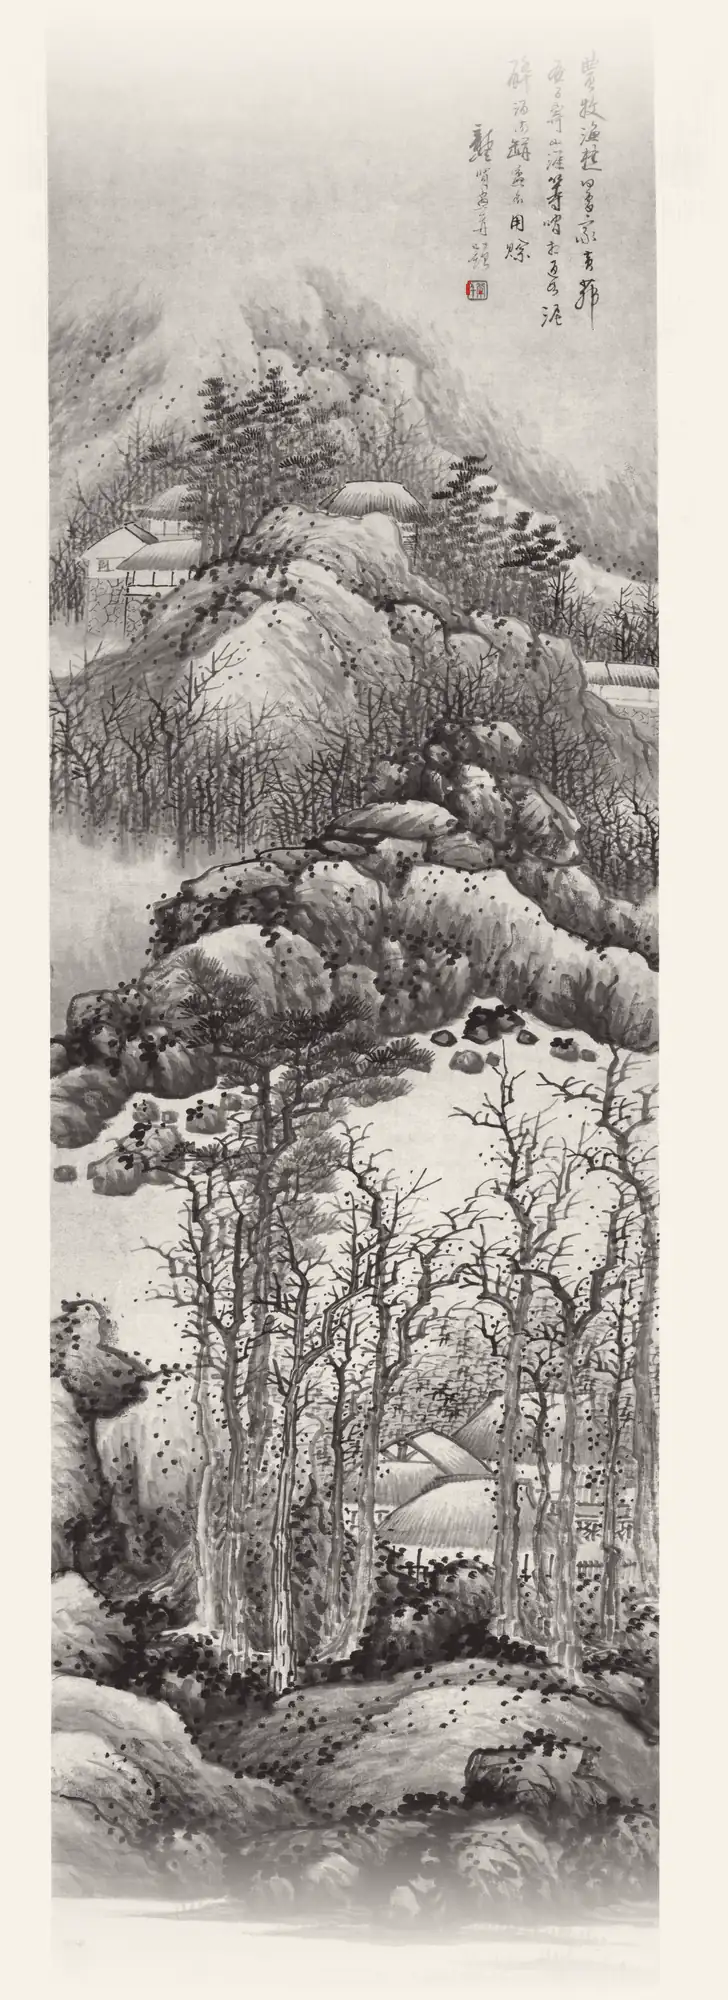
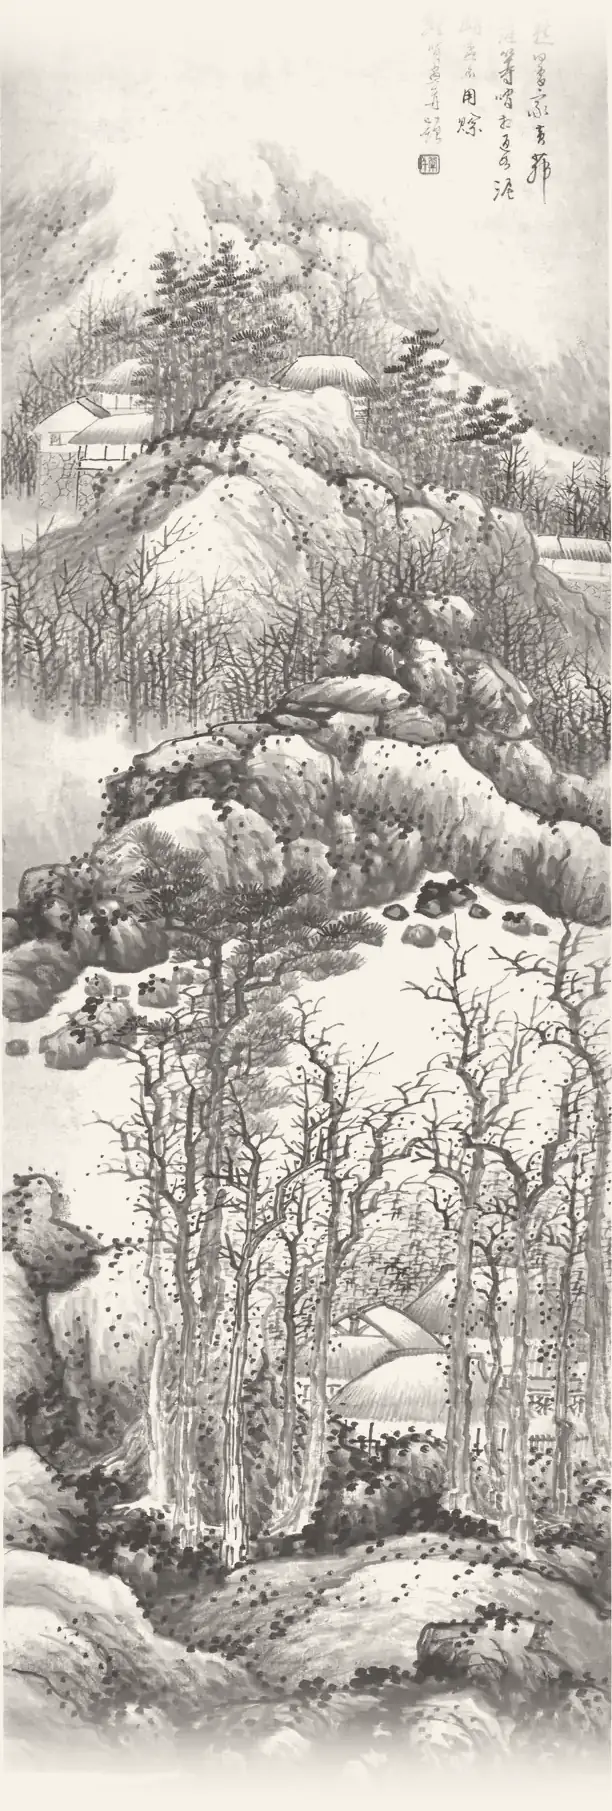
Your path: paintings trimmed and laid on the paper, even fade at both edges; no Practise by mode link
art/build.py re-exports art/src/ink*.webp: flat paper, blank margins and detached edge strips cut, ink on --paper,
INKS written into js/units.js. .umap::before fades left and right the same with a mask. The lesson card loses its
Practise by mode link and the news line pointing to it.

Claude-Session: https://claude.ai/code/session_01MQovhKtgNyruh7SscxyjYd

diff --git a/css/app.css b/css/app.css
@@ -1236,12 +1236,13 @@ details.gegd>.geg{padding-bottom:12px}
 .ulh{position:sticky;top:0;z-index:3;display:flex;align-items:center;gap:12px;background:var(--surface);border:1.5px solid var(--line);border-radius:14px;padding:10px 12px;box-shadow:0 6px 12px -10px rgb(0 0 0/.3)}
 .ulht{flex:1;min-width:0;display:flex;flex-direction:column;gap:2px}.ulht small{color:var(--muted);font-size:.76rem}.ulht b{font-family:var(--f-display);font-size:1rem;line-height:1.2}
 .ulbar{display:block;height:5px;border-radius:9px;background:var(--sunk);overflow:hidden;margin-top:3px}.ulbar i{display:block;height:100%;background:var(--accent);border-radius:inherit}
-.ulmore{flex:none;font-size:.78rem;font-weight:600;color:var(--muted);text-decoration:underline;text-underline-offset:2px;padding:6px 2px;max-width:92px;text-align:right;line-height:1.2}
 .umap{position:relative;border-radius:4px;padding:30px 0 64px;overflow:hidden;background:var(--paper);
   box-shadow:inset 0 0 0 1px rgb(0 0 0/.12),inset 0 0 0 6px var(--paper),inset 0 0 0 7px rgb(0 0 0/.18),0 10px 24px -16px rgb(60 40 30/.5)}
-/* the painting, faint enough for the stamps to stay in front */
-.umap::before{content:"";position:absolute;inset:8px;background:var(--a1) top center/100% auto no-repeat,var(--a2,none) bottom center/100% auto no-repeat;opacity:.55;pointer-events:none}
-.ia1{--a1:url(../art/ink1.webp)}.ia2{--a1:url(../art/ink2.webp)}.ia3{--a1:url(../art/ink3.webp)}.ia4{--a1:url(../art/ink4.webp)}.ia5{--a1:url(../art/ink5.webp)}.ia6{--a1:url(../art/ink6.webp)}.ia7{--a1:url(../art/ink7.webp)}.ia8{--a1:url(../art/ink8.webp)}.ia9{--a1:url(../art/ink9.webp)}.ia10{--a1:url(../art/ink10.webp)}.ia11{--a1:url(../art/ink11.webp)}.ia12{--a1:url(../art/ink12.webp)}.ia13{--a1:url(../art/ink13.webp)}.ia14{--a1:url(../art/ink14.webp)}.ia15{--a1:url(../art/ink15.webp)}.ia16{--a1:url(../art/ink16.webp)}.ia17{--a1:url(../art/ink17.webp)}.ia18{--a1:url(../art/ink18.webp)}.ia19{--a1:url(../art/ink19.webp)}.ia20{--a1:url(../art/ink20.webp)}.ia21{--a1:url(../art/ink21.webp)}.ia22{--a1:url(../art/ink22.webp)}.ib1{--a2:url(../art/ink1.webp)}.ib2{--a2:url(../art/ink2.webp)}.ib3{--a2:url(../art/ink3.webp)}.ib4{--a2:url(../art/ink4.webp)}.ib5{--a2:url(../art/ink5.webp)}.ib6{--a2:url(../art/ink6.webp)}.ib7{--a2:url(../art/ink7.webp)}.ib8{--a2:url(../art/ink8.webp)}.ib9{--a2:url(../art/ink9.webp)}.ib10{--a2:url(../art/ink10.webp)}.ib11{--a2:url(../art/ink11.webp)}.ib12{--a2:url(../art/ink12.webp)}.ib13{--a2:url(../art/ink13.webp)}.ib14{--a2:url(../art/ink14.webp)}.ib15{--a2:url(../art/ink15.webp)}.ib16{--a2:url(../art/ink16.webp)}.ib17{--a2:url(../art/ink17.webp)}.ib18{--a2:url(../art/ink18.webp)}.ib19{--a2:url(../art/ink19.webp)}.ib20{--a2:url(../art/ink20.webp)}.ib21{--a2:url(../art/ink21.webp)}.ib22{--a2:url(../art/ink22.webp)}
+/* the painting, faint enough for the stamps to stay in front. The images are trimmed to the painted area and laid on
+   --paper (art/build.py); they span the sheet edge to edge and fade out the same on the left and the right */
+.umap::before{content:"";position:absolute;inset:8px;background:var(--a1) top center/100% auto no-repeat,var(--a2,none) bottom center/100% auto no-repeat;opacity:.55;pointer-events:none;
+  -webkit-mask-image:linear-gradient(90deg,transparent,#000 9%,#000 91%,transparent);mask-image:linear-gradient(90deg,transparent,#000 9%,#000 91%,transparent)}
+.ia1{--a1:url(../art/ink1.webp?v=2)}.ia2{--a1:url(../art/ink2.webp?v=2)}.ia3{--a1:url(../art/ink3.webp?v=2)}.ia4{--a1:url(../art/ink4.webp?v=2)}.ia5{--a1:url(../art/ink5.webp?v=2)}.ia6{--a1:url(../art/ink6.webp?v=2)}.ia7{--a1:url(../art/ink7.webp?v=2)}.ia8{--a1:url(../art/ink8.webp?v=2)}.ia9{--a1:url(../art/ink9.webp?v=2)}.ia10{--a1:url(../art/ink10.webp?v=2)}.ia11{--a1:url(../art/ink11.webp?v=2)}.ia12{--a1:url(../art/ink12.webp?v=2)}.ia13{--a1:url(../art/ink13.webp?v=2)}.ia14{--a1:url(../art/ink14.webp?v=2)}.ia15{--a1:url(../art/ink15.webp?v=2)}.ia16{--a1:url(../art/ink16.webp?v=2)}.ia17{--a1:url(../art/ink17.webp?v=2)}.ia18{--a1:url(../art/ink18.webp?v=2)}.ia19{--a1:url(../art/ink19.webp?v=2)}.ia20{--a1:url(../art/ink20.webp?v=2)}.ia21{--a1:url(../art/ink21.webp?v=2)}.ia22{--a1:url(../art/ink22.webp?v=2)}.ib1{--a2:url(../art/ink1.webp?v=2)}.ib2{--a2:url(../art/ink2.webp?v=2)}.ib3{--a2:url(../art/ink3.webp?v=2)}.ib4{--a2:url(../art/ink4.webp?v=2)}.ib5{--a2:url(../art/ink5.webp?v=2)}.ib6{--a2:url(../art/ink6.webp?v=2)}.ib7{--a2:url(../art/ink7.webp?v=2)}.ib8{--a2:url(../art/ink8.webp?v=2)}.ib9{--a2:url(../art/ink9.webp?v=2)}.ib10{--a2:url(../art/ink10.webp?v=2)}.ib11{--a2:url(../art/ink11.webp?v=2)}.ib12{--a2:url(../art/ink12.webp?v=2)}.ib13{--a2:url(../art/ink13.webp?v=2)}.ib14{--a2:url(../art/ink14.webp?v=2)}.ib15{--a2:url(../art/ink15.webp?v=2)}.ib16{--a2:url(../art/ink16.webp?v=2)}.ib17{--a2:url(../art/ink17.webp?v=2)}.ib18{--a2:url(../art/ink18.webp?v=2)}.ib19{--a2:url(../art/ink19.webp?v=2)}.ib20{--a2:url(../art/ink20.webp?v=2)}.ib21{--a2:url(../art/ink21.webp?v=2)}.ib22{--a2:url(../art/ink22.webp?v=2)}
 :root[data-theme="dark"] .umap::before{filter:invert(1) sepia(.15) brightness(.85);mix-blend-mode:screen;opacity:.35}
 .unodes{position:relative;z-index:1}
 .ulink{position:absolute;left:50%;top:0;overflow:visible;pointer-events:none}

diff --git a/js/i18n.js b/js/i18n.js
@@ -146,7 +146,7 @@ CS_P.push(
  [/^Last: (\d+)%$/,(m,a)=>`Naposledy: ${a} %`],
  [/^Tone (\d) → (\d)$/,(m,a,b)=>`${a}. tón → ${b}.`]);
 /* Your path, step by step (js/units.js) */
-Object.assign(CS,{"Lesson review":"Opakování lekce","Here":"Tady jsi","Practise by mode":"Procvičovat zvlášť",
+Object.assign(CS,{"Lesson review":"Opakování lekce","Here":"Tady jsi",
  "Finish the lesson before it to open this one.":"Lekce se odemkne, až dokončíš tu předchozí.",
  "Everything from this lesson, mixed: words, characters, tones, sentences and grammar.":"Všechno z téhle lekce namíchané dohromady: slova, znaky, tóny, věty a gramatika.",
  "Finish the units before it first.":"Nejdřív dokonči podbody před ním.","Take the Final test":"Udělat Finální test","Play it again":"Zahrát znovu",
@@ -164,8 +164,7 @@ Object.assign(CS,{"Lesson review":"Opakování lekce","Here":"Tady jsi","Practis
  "Units open one after another. Grammar units come between the words, then a lesson review and the Final test, which stamps the seal as before.":"Podbody se odemykají jeden po druhém. Mezi slovy jsou podbody s gramatikou, na konci opakování lekce a Finální test, který jako dřív orazítkuje pečeť.",
  "Play a finished unit again at level 2 and 3 (gold): fewer hints, more typing and writing from memory.":"Hotový podbod můžeš zahrát znovu na úrovni 2 a 3 (zlatá): méně nápověd, víc psaní pinyinu a znaků zpaměti.",
  "Know a lesson already? Pass its Final test to skip straight to it. What you have learnt so far counts: units with words you know are done.":"Lekci už umíš? Splň její Finální test a přeskočíš rovnou k ní. Co už umíš, se počítá: podbody se slovy, která znáš, jsou hotové.",
- "Each lesson has its own old Chinese ink landscape from The Metropolitan Museum of Art (public domain), shown whole while you scroll.":"Každá lekce má svou starou čínskou tušovou malbu z Metropolitního muzea v New Yorku (volné dílo), celou a viditelnou i při posouvání.","New words are taught two at a time, a mistake comes back a few exercises later, and after a unit you can practise its mistakes.":"Nová slova se učí po dvou, chyba se vrátí o pár úloh později a po podbodu si můžeš procvičit své chyby.",
- "The modes of each lesson (flashcards, tones, writing…) are still there under Practise by mode.":"Režimy každé lekce (kartičky, tóny, psaní…) zůstaly pod Procvičovat zvlášť."});
+ "Each lesson has its own old Chinese ink landscape from The Metropolitan Museum of Art (public domain), shown whole while you scroll.":"Každá lekce má svou starou čínskou tušovou malbu z Metropolitního muzea v New Yorku (volné dílo), celou a viditelnou i při posouvání.","New words are taught two at a time, a mistake comes back a few exercises later, and after a unit you can practise its mistakes.":"Nová slova se učí po dvou, chyba se vrátí o pár úloh později a po podbodu si můžeš procvičit své chyby."});
 CS_P.push(
  [/^Words (\d+)$/,(m,n)=>`Slova ${n}`],
  [/^(\d+)% stamps the seal$/,(m,n)=>`${n} % orazítkuje pečeť`],

diff --git a/js/units.js b/js/units.js
@@ -58,7 +58,8 @@ const unitNext=l=>{const n=unitNow();if(n.l===l)return n.u;return lessonUnits(l)
    Metropolitan Museum of Art, Open Access CC0; see art/README.md), turned into the app's ink and paper. It spans the
    width of the sheet from the top, whole, never cut or stretched; each lesson gets the
    painting whose shape (width / height) is closest to its sheet, and no two lessons of a course share one. */
-const INKS=[0.684,0.513,0.579,0.282,0.504,0.595,0.484,0.374,0.425,0.473,0.557,0.364,0.324,0.442,0.716,0.474,0.506,0.239,0.461,0.401,0.268,0.308];
+// INKS is written by art/build.py
+const INKS=[0.722,0.525,0.608,0.295,0.522,0.651,0.501,0.347,0.443,0.48,0.532,0.338,0.324,0.431,0.759,0.46,0.509,0.237,0.454,0.416,0.278,0.301];
 // the sheet is about 340px wide; a painting spans it, so it is 340 / aspect tall. A lesson gets the painting closest to
 // its own shape; a long lesson whose sheet holds two paintings whole gets a second one at its foot, never overlapping.
 const INK_OF=(()=>{let m=null;return l=>{if(!m){m={};const used=new Set(),h=i=>336/INKS[i];
@@ -75,7 +76,7 @@ function lessonPathHtml(l,k){
       ${here?`<span class="ustart">${u.kind==='f'?'Test':lv?'Here':'Start'}</span>`:''}<span class="ubub" lang="zh-Hans">${unitGlyph(l,u)}</span>${u.kind!=='f'?`<span class="ulvb" aria-hidden="true">${[1,2,3].map(j=>`<i class="${j<=lv?'on':''}"></i>`).join('')}</span>`:''}</button>
       <span class="uname">${esc(unitName(l,u))}</span></div>`};
   return `<section class="ulesson${op?'':' locked'}" id="ul-${l}"><div class="ulh">${sealHtml(l,'sm')}<div class="ulht"><small><span>${esc(LNAME(l))}</span>${sealOf(l)?' · <span>Completed</span>':` · <span>${esc(`${done} / ${tot} units`)}</span>`}</small><b>${esc(m.en)}</b>
-      <span class="ulbar" aria-hidden="true"><i style="width:${sealOf(l)?100:Math.round(done/Math.max(1,tot)*100)}%"></i></span></div><button class="ulmore" data-lsheet="${l}" type="button">Practise by mode</button></div>
+      <span class="ulbar" aria-hidden="true"><i style="width:${sealOf(l)?100:Math.round(done/Math.max(1,tot)*100)}%"></i></span></div></div>
     <div class="umap ia${INK_OF(l)[0]}${INK_OF(l)[1]?` ib${INK_OF(l)[1]}`:''}"><div class="unodes" style="height:${H}px"><svg class="ulink" width="1" height="${H}" aria-hidden="true" focusable="false"><path class="todo" d="${line}"/><path class="ink" d="${ink}"/></svg>${us.map(node).join('')}</div></div>
     ${op?'':`<div class="ujump"><p class="hint">Finish the lesson before it to open this one.</p><button class="btn ghost" data-jump="${l}" type="button">${esc(`Know it already? Take the Final test of ${LNAME(l)}`)}</button></div>`}</section>`;
 }

diff --git a/tests/cases/11-path.js b/tests/cases/11-path.js
@@ -18,7 +18,7 @@ module.exports=[
     assert.equal(await a.page.$$eval('.unode.cur',e=>e.length),1);assert.equal(await a.page.$eval('.unode.cur',e=>e.dataset.unit),'2|w1','the first unit of lesson 2 is not marked');
     assert.equal(await a.page.$$eval('#ul-1 .unode.done',e=>e.length),await a.page.evaluate(()=>lessonUnits('1').length),'a stamped lesson is not all done');
     assert.ok(await a.page.$('#ul-3.locked [data-jump="3"]'),'lesson 3 is not locked with a way to skip to it');assert.ok(!(await a.page.$('#ul-2.locked')),'lesson 2 is locked');
-    assert.match(await a.text('.tcta'),/Pokračuj: Lekce 2 · Slova 1/);assert.match(await a.text('#ul-1 .ulh'),/Lekce 1 · Splněno.*Procvičovat zvlášť/);assert.ok(await a.page.$('.jgoal [data-go="hsktest"]'),'no goal');
+    assert.match(await a.text('.tcta'),/Pokračuj: Lekce 2 · Slova 1/);assert.match(await a.text('#ul-1 .ulh'),/Lekce 1 · Splněno/);assert.ok(!(await a.page.$('.ulh button')),'the lesson card still has a button');assert.ok(await a.page.$('.jgoal [data-go="hsktest"]'),'no goal');
     assert.equal(await a.page.evaluate(()=>document.documentElement.scrollWidth),390,'the path is wider than the screen');
     await a.page.click('.unode.cur');await a.page.waitForSelector('.nsheet .usheet');assert.match(await a.text('.usheet'),/Slova 1.*Začít/);
     await a.page.click('.nsheet [data-ugo]');await a.page.waitForSelector('.ubar');noErrors(a)}finally{await a.close()}

diff --git a/sw.js b/sw.js
@@ -4,7 +4,7 @@
    Every release changes CACHE below, so the files of a version are cached together and an older cache is dropped.
    The big files that rarely change (DATA_FILES) live in their own cache, DATA: a release keeps it, so they are not
    downloaded again. Change DATA only when one of those files changes. */
-const CACHE='zyl-v19';
+const CACHE='zyl-v20';
 const CORE=['./','index.html','css/app.css',
   'js/data-cin1.js','js/data-hsk1.js','js/packs.js','js/data-chars.js','js/items.js','js/util.js','js/state.js','js/examples.js','js/voice.js','js/update.js','js/speech.js','js/home.js','js/setup.js','js/review.js','js/cards.js','js/try-writing.js','js/questions.js','js/learn.js','js/test.js','js/match.js','js/vocab.js','js/sentences.js','js/grammar-data.js','js/grammar.js','js/writing.js','js/tones.js','js/progress.js','js/account.js','js/welcome.js','js/phonetics.js','js/admin.js','js/nudges.js','js/path.js','js/units.js','js/hsk-test.js','js/modes.js','js/news.js','js/strings-cs.js','js/i18n.js',
   'manifest.webmanifest','grammar-practice.json','grammar-hsk1.json','hsk1-tests.json','examples.json','phonetics.json','grammar1.json',

diff --git a/js/news.js b/js/news.js
@@ -11,8 +11,7 @@ const NEWS=[
       'Play a finished unit again at level 2 and 3 (gold): fewer hints, more typing and writing from memory.',
       'Know a lesson already? Pass its Final test to skip straight to it. What you have learnt so far counts: units with words you know are done.',
       'Each lesson has its own old Chinese ink landscape from The Metropolitan Museum of Art (public domain), shown whole while you scroll.',
-      'New words are taught two at a time, a mistake comes back a few exercises later, and after a unit you can practise its mistakes.',
-      'The modes of each lesson (flashcards, tones, writing…) are still there under Practise by mode.']},
+      'New words are taught two at a time, a mistake comes back a few exercises later, and after a unit you can practise its mistakes.']},
   {id:'2026-11-21',d:'2026-11-21',t:"Today’s review as flashcards",art:'cards',go:()=>review(),
     what:"The cards to review today now look and work like Flashcards: tap to flip, then say how well you remembered it: Again, Hard, Good or Easy.",
     where:"Home › Cards to review today",

diff --git a/art/build.py b/art/build.py
@@ -1,0 +1,102 @@
+#!/usr/bin/env python3
+"""Builds the paintings behind Your path: art/src/inkN.webp -> art/inkN.webp, and the INKS list in js/units.js.
+
+    python3 art/build.py            (needs Pillow and numpy: pip install pillow numpy)
+
+The sources are the earlier exports of the Met scans (already ink on paper). For each one:
+1. Flat-field: the paper is estimated with a wide max filter and divided out, so uneven paper tones (a grey ground,
+   vignettes on one side) become one flat paper and only the ink is left (0 = paper, 1 = black ink).
+2. Trim: blank margins are cut away. Columns are scanned for ink; a narrow run of inked columns at the left or right
+   edge that is cut off from the painting by a blank gap (a separate strip of calligraphy, a mount) is dropped.
+   Inscriptions inside the painting stay. Rows are only trimmed of blank paper at the top and bottom.
+3. Colour: the ink is laid on the app's --paper (#f7f1e8 on .journey) in the app's warm black, so the edges of every
+   painting are exactly the colour of the sheet. The top and bottom fade into the paper; the left and right edges are
+   faded by CSS (.umap::before, mask-image), the same on both sides.
+4. Saved as WebP, at most 900 px wide.
+The shapes (width / height) are written into INKS in js/units.js, which picks a painting for each lesson.
+"""
+import pathlib, re
+import numpy as np
+from PIL import Image, ImageFilter
+
+ROOT = pathlib.Path(__file__).resolve().parent.parent
+SRC, OUT = ROOT / 'art' / 'src', ROOT / 'art'
+PAPER = np.array([247, 241, 232], float)   # --paper of .journey (css/app.css)
+INK = np.array([38, 33, 31], float)        # warm black ink
+N = 22
+MAX_W, QUALITY = 900, 70
+INK_MIN = 0.06       # ink below this is paper grain
+COL_INK = 0.012      # a column (or row) with less ink than this on average is blank
+GAP = 0.012          # a blank gap of at least this share of the width cuts a strip off
+STRIP = 0.16         # an edge run narrower than this share of the width is a strip, dropped
+EDGE = 0.06          # the faded rim of the sources, share of the shorter side
+FADE = 0.05          # top and bottom fade, share of the height
+
+def paper_of(L):
+    """The paper under the ink: a wide maximum (the brightest paper nearby), smoothed. It is measured inside the
+    old faded edge (EDGE) and carried out to the border, so a lighter rim does not count as the paper."""
+    h, w = L.shape
+    e = int(EDGE * min(w, h))
+    inner = Image.fromarray(L[e:h - e, e:w - e].astype(np.uint8))
+    sw = 160
+    small = inner.resize((sw, max(8, round(inner.height * sw / inner.width))), Image.BILINEAR)
+    bg = small.filter(ImageFilter.MaxFilter(25)).filter(ImageFilter.GaussianBlur(10))
+    bg = np.asarray(bg.resize(inner.size, Image.BILINEAR), float)
+    return np.maximum(np.pad(bg, e, mode='edge'), 60)
+
+def runs(mask, gap):
+    """Runs of True, joining runs separated by fewer than `gap` False."""
+    idx = np.flatnonzero(mask)
+    if not len(idx):
+        return []
+    out, a, b = [], idx[0], idx[0]
+    for i in idx[1:]:
+        if i - b > gap:
+            out.append([a, b]); a = i
+        b = i
+    out.append([a, b])
+    return out
+
+def smooth(v, k):
+    k = max(1, int(k)) | 1
+    return np.convolve(v, np.ones(k) / k, mode='same')
+
+def build(n):
+    im = Image.open(SRC / f'ink{n}.webp').convert('RGB')
+    L = np.asarray(im.convert('L'), float)
+    t = np.clip(1 - L / paper_of(L), 0, 1)
+    t = np.clip((t - INK_MIN) / (1 - INK_MIN), 0, 1)
+    h, w = t.shape
+    # columns: keep the painting, drop strips cut off at the edges
+    cols = smooth(t.mean(0), w * .004) > COL_INK
+    rs = runs(cols, GAP * w)
+    while len(rs) > 1 and rs[0][1] - rs[0][0] < STRIP * w:
+        rs.pop(0)
+    while len(rs) > 1 and rs[-1][1] - rs[-1][0] < STRIP * w:
+        rs.pop()
+    x0, x1 = rs[0][0], rs[-1][1] + 1
+    rows = smooth(t[:, x0:x1].mean(1), h * .005) > COL_INK
+    ys = np.flatnonzero(rows)
+    y0, y1 = ys[0], ys[-1] + 1
+    t = t[y0:y1, x0:x1]
+    h, w = t.shape
+    f = max(1, int(FADE * h))
+    ramp = np.ones(h)
+    ramp[:f] = np.linspace(0, 1, f) ** 1.5
+    ramp[-f:] = np.linspace(1, 0, f) ** 1.5
+    t = t * ramp[:, None]
+    rgb = PAPER + (INK - PAPER) * t[..., None]
+    out = Image.fromarray(np.clip(rgb + .5, 0, 255).astype(np.uint8))
+    if w > MAX_W:
+        out = out.resize((MAX_W, round(h * MAX_W / w)), Image.LANCZOS)
+    out.save(OUT / f'ink{n}.webp', 'WEBP', quality=QUALITY, method=6)
+    print(f'ink{n}: {im.width}x{im.height} -> crop x {x0}-{x1}, y {y0}-{y1} -> {out.width}x{out.height}')
+    return out.width / out.height
+
+if __name__ == '__main__':
+    shapes = [build(n) for n in range(1, N + 1)]
+    js = ROOT / 'js' / 'units.js'
+    src = js.read_text(encoding='utf8')
+    line = 'const INKS=[' + ','.join(f'{s:.3f}'.rstrip('0') for s in shapes) + '];'
+    js.write_text(re.sub(r'const INKS=\[[^\]]*\];', line, src, count=1), encoding='utf8')
+    print(line)

diff --git a/README.md b/README.md
@@ -6,6 +6,7 @@ Aplikace na procvičování čínských znaků. Běží jako statická stránka 
 - `strokes.json` – data pro tahy znaků
 - `hsk1/` – kurz **HSK 1** (nové HSK, oficiální osnova CLEC z listopadu 2025, platí od července 2026): oficiální seznam 300 slov (`words.tsv`), 246 znaků ke čtení (`chars.txt`), znaky k psaní (`write.txt`), rozdělení do 15 lekcí podle oficiálních komunikačních úkolů (`lessons.txt`), gramatika podle oficiálního seznamu gramatiky HSK 1 s příklady a cvičeními (`grammar.txt`, cvičení se zapíší do `grammar-hsk1.json`), věty k lekcím (`sentences.txt`), dva cvičné testy ve formátu oficiálního testu HSK 1 (`tests.txt`, zapíší se do `hsk1-tests.json`; `build_grammar.py` hlídá, že všechno používá jen slova HSK 1) a anglické významy z CC-CEDICT (`cedict-hsk1.u8`, CC BY-SA 4.0). `hsk1/build.py` z nich vloží data do `js/data-hsk1.js` a doplní tahy do `strokes.json`: `pip install pypinyin==0.55.0`, `npm pack hanzi-writer-data@2.0.1 && tar xzf hanzi-writer-data-2.0.1.tgz`, `python3 hsk1/build.py package`. Písmo pak znovu sestaví `fonts/build_font.py`.
 - `phonetics.json` – slabiky a slova pro Čínský diktát (příprava na test z fonetiky). Vzniká skriptem `phonetics/build.py` z tabulky slabik kurzu `phonetics/syllables.txt`: `pip install pypinyin==0.55.0 && python3 phonetics/build.py phonetics.json`
+- `art/` – malby za Tvou cestou (`ink1.webp` … `ink22.webp`, zdroje a autoři v [`art/README.md`](art/README.md)). Vznikají skriptem `art/build.py` ze zdrojů v `art/src/`: `pip install pillow numpy && python3 art/build.py`. Skript ořízne prázdné okraje a odtržené proužky na krajích, srovná papír na `--paper` (#f7f1e8), aby kraje nebyly šedé, uloží WebP a zapíše poměry stran do `INKS` v `js/units.js`. Levý a pravý kraj ztlumí stejně CSS (`.umap::before`, `mask-image`). Obrázky jsou v cache `DATA`, která vydání přežije: po novém sestavení proto zvyš `?v=` u `url(../art/ink…webp)` v `css/app.css`.
 - Pokrok se ukládá v prohlížeči (localStorage). Účty, synchronizace pokroku a žebříček běží přes Supabase, jakmile jsou v `js/account.js` vyplněné klíče. Návod: [`supabase/README.md`](supabase/README.md).
 
 ## Jak je aplikace poskládaná

diff --git a/art/README.md b/art/README.md
@@ -1,9 +1,13 @@
 # Paintings behind Your path
 
 Old Chinese ink landscapes from The Metropolitan Museum of Art, New York, released by the museum as Open Access
-(public domain, CC0). Each one is cropped to the painted area, turned into the app's ink and paper, its edges fade into
-the paper, and it is saved as WebP (`ink1.webp` … `ink22.webp`). Every lesson of a course shows one of them, the one
-whose shape is closest to the shape of the lesson (`INKS` in `js/units.js` lists their width / height).
+(public domain, CC0). `build.py` makes `ink1.webp` … `ink22.webp` from the sources in `src/`: it evens out the paper
+(no grey ground or one-sided vignette), trims the blank margins and the detached strips at the left and right edges,
+lays the ink on the app's `--paper` with a soft top and bottom, and saves WebP. The left and right edges fade in CSS,
+the same on both sides. Every lesson of a course shows one of them, the one whose shape is closest to the shape of the
+lesson (`INKS` in `js/units.js` lists their width / height and is written by `build.py`).
+
+    pip install pillow numpy && python3 art/build.py
 
 | File | Painting | Artist | Date | Source |
 | --- | --- | --- | --- | --- |
